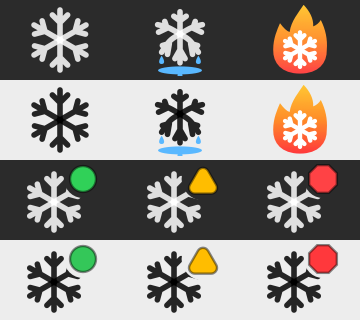
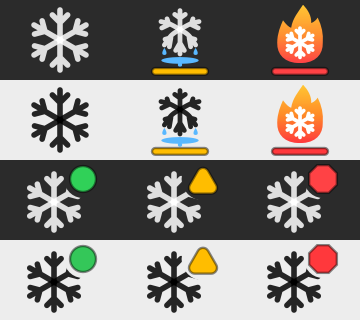
Melting Snowflake: a yellow or red bar when something needs a look (#16)
The Melting Snowflake icon gets a bar underneath when something needs a
look: yellow when it's worth watching, red for a problem. When all is
well it stays a plain snowflake. Phil, 15 November 2026, asked which bar
the Melting Snowflake should get: "Yellow and red only".

**Merge after #15.** This branch is built on #15 (and #14), so until
those merge, the Files changed tab also shows their changes.

## Why
The melting icon had no green or yellow at all: calm is a plain
snowflake, worth watching is a drooping snowflake with blue drops (blue
reads as ice, not "look at this"), and a problem is a red and orange
flame. The bar gives the stoplight colour at a glance; the snowflake's
shape still carries the meaning for people who can't tell the colours
apart. Calm gets no bar, so the menu bar shows colour only when it means
something; the Status Badge style remains for anyone who wants a steady
green.

## What changes
- For worth watching and a problem, the drawing is lifted and scaled to
85%, and a rounded bar 14 by 1.7 points sits along the bottom, in the
badge's yellow or red with the same fine dark edge.
- README: the menu icons image is re-rendered (new image below) and the
text mentions the bar.

## Tested
- Builds; `coolhead selftest` passes 50 of 50; version check passes.
- The icons rendered at 4x on light and dark menu bars with the app's
snapshot mode (`docs/images/menu-icons.png`).
- Not tested: the icon in the real menu bar of the running app.
[…]

diff --git a/Sources/CoolHeadApp/CoolHeadApp.swift b/Sources/CoolHeadApp/CoolHeadApp.swift
@@ -285,7 +285,23 @@ enum MenuIcon {
 
     /// Calm: a whole snowflake. Worth watching: its lower half has melted, dripping into a small puddle.
     /// Problem: only a big puddle is left, with a flame on top.
+    /// Worth watching and a problem also get a bar along the bottom, yellow or red, so the stoplight colour is there
+    /// at a glance (Phil, 15 November 2026: "Yellow and red only"); calm stays a plain snowflake, so the menu bar shows
+    /// colour only when something needs a look. The drawing is lifted and made a little smaller to make room.
     static func melting(_ level: Watcher.Level) {
+        if level == .good { flake(center: NSPoint(x: 10, y: 9), r: 7.5); return }
+        NSGraphicsContext.saveGraphicsState()
+        let t = NSAffineTransform()
+        t.translateX(by: 10, yBy: 2.7)
+        t.scale(by: 0.85)
+        t.translateX(by: -10, yBy: 0)
+        t.concat()
+        meltingArt(level)
+        NSGraphicsContext.restoreGraphicsState()
+        NSBezierPath(roundedRect: NSRect(x: 3, y: 0.3, width: 14, height: 1.7), xRadius: 0.85, yRadius: 0.85).fill(with: level)
+    }
+
+    static func meltingArt(_ level: Watcher.Level) {
         switch level {
         case .good:
             flake(center: NSPoint(x: 10, y: 9), r: 7.5)

diff --git a/README.md b/README.md
@@ -67,9 +67,9 @@ macOS 14 Sonoma or later, on Apple Silicon or Intel.
 
 1. Download the latest `Cool-Head-….zip` from [Releases](../../releases), and unzip it.
 2. Move **Cool Head** to Applications and open it. The first time, macOS may say it can't check the app (it isn't notarized yet): open **System Settings ▸ Privacy & Security** and choose **Open Anyway**.
-3. Look for the snowflake in the menu bar. Its badge shows the state by shape and color: a green circle when all is good, a yellow triangle when something is worth watching, a red octagon for a problem. Prefer something sillier? Right-click it and choose **Menu Bar Icon ▸ Melting Snowflake**: it melts as things heat up, and bursts into flames when there's a problem.
+3. Look for the snowflake in the menu bar. Its badge shows the state by shape and color: a green circle when all is good, a yellow triangle when something is worth watching, a red octagon for a problem. Prefer something sillier? Right-click it and choose **Menu Bar Icon ▸ Melting Snowflake**: it melts as things heat up, and bursts into flames when there's a problem, with a yellow or red bar underneath so the color is there at a glance.
 
-<p align="center"><img src="docs/images/menu-icons.png" width="270" alt="The menu bar icons: Melting Snowflake whole, drooping, and in flames; and the snowflake with a green circle, yellow triangle, or red octagon, on dark and light menu bars"></p>
+<p align="center"><img src="docs/images/menu-icons.png" width="270" alt="The menu bar icons: Melting Snowflake whole, drooping over a yellow bar, and in flames over a red bar; and the snowflake with a green circle, yellow triangle, or red octagon, on dark and light menu bars"></p>
 
 Click the snowflake for the panel. Right-click it for updates, Save Battery When Unplugged, the menu bar icon, your trusted apps and jobs, reporting a problem, and Quit.
 

diff --git a/CHANGELOG.md b/CHANGELOG.md
@@ -18,6 +18,7 @@ What changed in each version of Cool Head, newest first, in plain words. The for
 
 ### Changed
 
+- The Melting Snowflake icon gets a bar underneath when something needs a look: yellow when it's worth watching, red for a problem. When all is well it stays a plain snowflake.
 - Card wording, rewritten by hand: each fact said once (a long-running macOS task no longer gives its time twice, and the memory card no longer repeats the headline's figure), several facts about one thing joined into one sentence ("It's adding to the heat, competing with Hades, and draining your battery"), every step with a verb ("Choose Window ▸ Task Manager, then click CPU to put the busiest first"), and plain words for what started a process ("a command from a window or script that has since closed"). `coolhead wording` prints every card's text from the recorded examples.
 - Every option is a button. What Cool Head can't do itself, it opens the app where it's done and says how (Chrome's Task Manager, a game's settings, the Terminal window a job is suspended in), takes you to the settings page (Memory Saver, Edge's sleeping tabs), shows the folder in Finder, or shows the steps under the option (giving the Mac air, reconnecting a drive). Statements such as "macOS needs this" are now part of the card's explanation.
 - When a sync app (Google Drive, Dropbox, OneDrive, Box) uses the most memory, the memory card says quitting it loses nothing (it catches up when reopened), instead of "It'll ask to save first", and also offers Pause syncing, noting that pausing doesn't free its memory.
